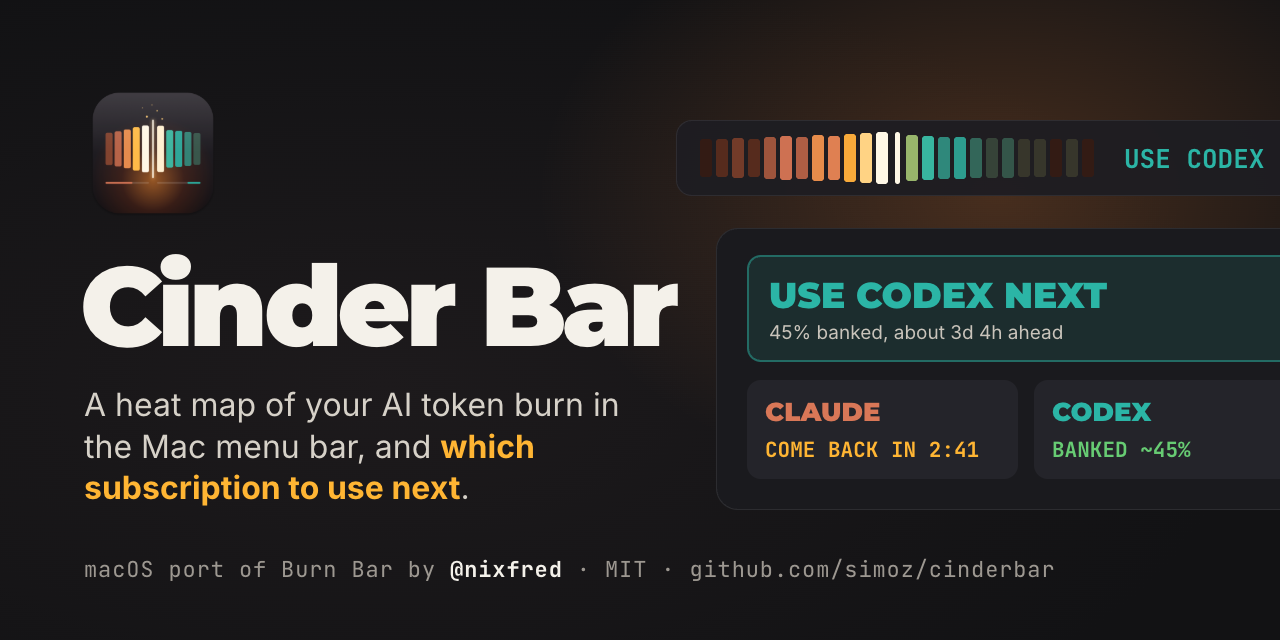
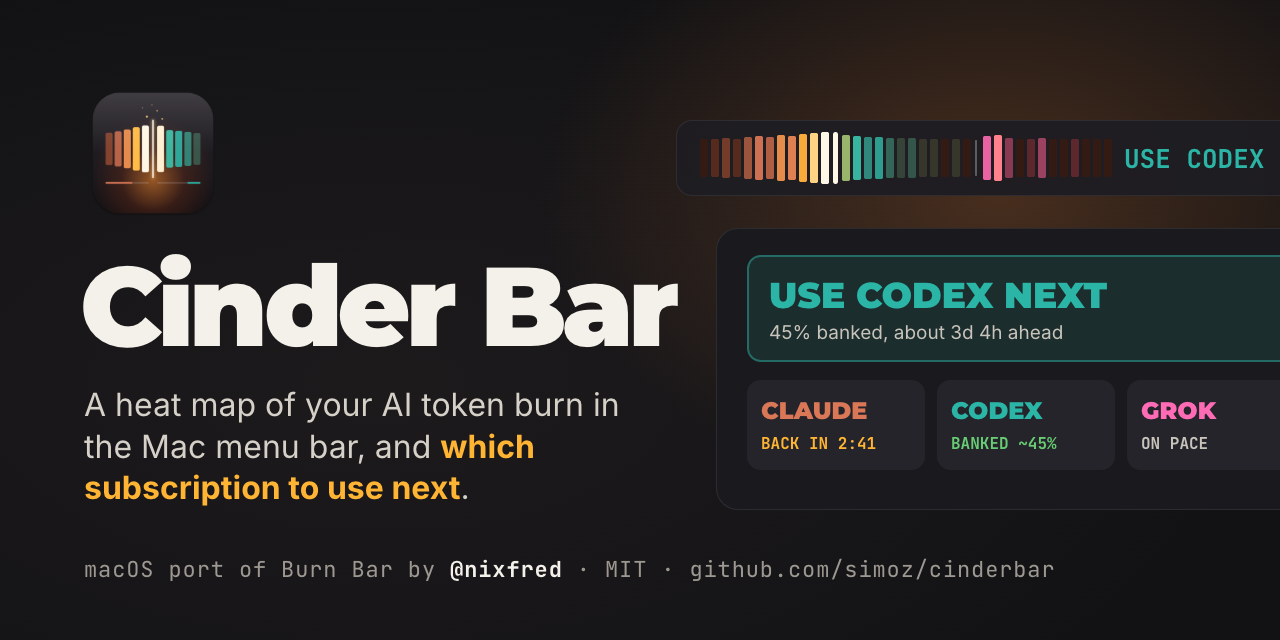
Screenshots and social card for 0.3.0
- docs/img: fresh cockpit, SETUP, strip and menu bar shots with the
  Grok lane (account names off)
- Social card: a third Grok lane on the strip and a Grok card
- bundle.sh: default VERSION 0.3.0

Changed region(s): [[0.5312, 0.1875, 0.8438, 0.3125], [0.5938, 0.625, 0.9375, 0.7188], [0.7188, 0.625, 0.9688, 0.6562]]

diff --git a/videos/social-card/index.html b/videos/social-card/index.html
@@ -17,17 +17,18 @@
       #foot b { color: #f4f1ea; }
       #bar { position: absolute; left: 676px; top: 120px; width: 640px; height: 76px; border-radius: 16px 0 0 16px; background: rgba(30,28,34,0.95); border: 1px solid rgba(255,255,255,0.07); }
       #lane { position: absolute; left: 700px; top: 128px; width: 420px; height: 60px; }
-      .cell { position: absolute; width: 12px; border-radius: 3px; }
+      .cell { position: absolute; width: 8px; border-radius: 2px; }
+      .rule { position: absolute; top: 12px; width: 2px; height: 36px; border-radius: 1px; background: rgba(255,255,255,0.28); }
       #div { position: absolute; left: 0; top: 4px; width: 5px; height: 52px; border-radius: 3px; background: #fff8e6; }
       #chip { position: absolute; left: 1124px; top: 120px; height: 76px; display: flex; align-items: center; font-family: "JetBrains Mono", monospace; font-weight: 700; font-size: 26px; color: #2bb5a6; white-space: nowrap; }
       #panel { position: absolute; left: 716px; top: 228px; width: 620px; height: 282px; border-radius: 22px 0 0 22px; background: #1a1a1e; border: 1px solid rgba(255,255,255,0.08); padding: 26px 30px; }
       .banner { border-radius: 14px; padding: 16px 20px; background: rgba(43,181,166,0.12); border: 2px solid rgba(43,181,166,0.45); }
       .banner .h { font-family: Montserrat, sans-serif; font-weight: 900; font-size: 36px; color: #2bb5a6; }
       .banner .d { font-size: 19px; color: #c9c4bb; margin-top: 4px; }
-      .row { display: flex; gap: 16px; margin-top: 18px; }
-      .mini { flex: 1; border-radius: 14px; background: #24242a; padding: 16px 18px; }
-      .mini .n { font-family: Montserrat, sans-serif; font-weight: 900; font-size: 26px; }
-      .mini .t { font-family: "JetBrains Mono", monospace; font-weight: 700; font-size: 21px; margin-top: 8px; white-space: nowrap; }
+      .row { display: flex; gap: 12px; margin-top: 18px; }
+      .mini { flex: 1; border-radius: 14px; background: #24242a; padding: 16px 14px; }
+      .mini .n { font-family: Montserrat, sans-serif; font-weight: 900; font-size: 24px; }
+      .mini .t { font-family: "JetBrains Mono", monospace; font-weight: 700; font-size: 16px; margin-top: 8px; white-space: nowrap; }
     </style>
   </head>
   <body>
@@ -42,13 +43,14 @@
       <div id="panel" class="clip" data-start="0" data-duration="1">
         <div class="banner"><div class="h">USE CODEX NEXT</div><div class="d">45% banked, about 3d 4h ahead</div></div>
         <div class="row">
-          <div class="mini"><div class="n" style="color: #d97757">CLAUDE</div><div class="t" style="color: #ffb533">COME BACK IN 2:41</div></div>
+          <div class="mini"><div class="n" style="color: #d97757">CLAUDE</div><div class="t" style="color: #ffb533">BACK IN 2:41</div></div>
           <div class="mini"><div class="n" style="color: #2bb5a6">CODEX</div><div class="t" style="color: #67cc73">BANKED ~45%</div></div>
+          <div class="mini"><div class="n" style="color: #ff6bb4">GROK</div><div class="t" style="color: #c9c4bb">ON PACE</div></div>
         </div>
       </div>
     </div>
     <script>
-      const C = { claude: [217, 119, 87], codex: [43, 181, 166] };
+      const C = { claude: [217, 119, 87], codex: [43, 181, 166], grok: [255, 107, 180] };
       const EMBER = [58, 26, 16], AMBER = [255, 181, 51], WHITE = [255, 248, 230];
       const mix = (a, b, f) => a.map((v, i) => Math.round(v + (b[i] - v) * f));
       function heat(t, agent) {
@@ -61,18 +63,22 @@
       }
       const CLAUDE = [0, 0.08, 0.16, 0.05, 0.28, 0.42, 0.33, 0.56, 0.5, 0.72, 0.88, 1.0];
       const CODEX = [0.62, 0.47, 0.32, 0.38, 0.22, 0.12, 0.17, 0.04, 0.08, 0, 0.03, 0];
+      const GROK = [0.4, 0.55, 0.18, 0, 0.06, 0.22, 0, 0, 0.03, 0, 0, 0];
+      const P = 11;
       const lane = document.getElementById("lane");
       const put = (vals, agent, x0) => vals.forEach((t, i) => {
         const d = document.createElement("div");
         d.className = "cell";
         const h = 52 * (0.72 + 0.28 * t);
-        d.style.left = (x0 + i * 16) + "px"; d.style.top = (30 - h / 2) + "px"; d.style.height = h + "px";
+        d.style.left = (x0 + i * P) + "px"; d.style.top = (30 - h / 2) + "px"; d.style.height = h + "px";
         d.style.background = t === 0 ? "rgba(58,26,16,0.75)" : heat(Math.max(0.08, t), agent);
         lane.appendChild(d);
       });
       put(CLAUDE, "claude", 0);
-      const dv = document.createElement("div"); dv.id = "div"; dv.style.left = (12 * 16 + 3) + "px"; lane.appendChild(dv);
-      put(CODEX, "codex", 12 * 16 + 14);
+      const dv = document.createElement("div"); dv.id = "div"; dv.style.left = (12 * P + 1) + "px"; lane.appendChild(dv);
+      put(CODEX, "codex", 12 * P + 10);
+      const rl = document.createElement("div"); rl.className = "rule"; rl.style.left = (24 * P + 11) + "px"; lane.appendChild(rl);
+      put(GROK, "grok", 24 * P + 19);
       window.__timelines["card"] = gsap.timeline({ paused: true });
     </script>
   </body>
